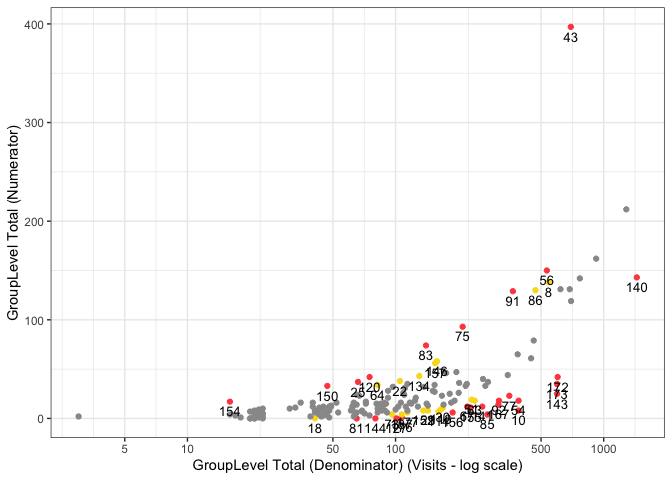
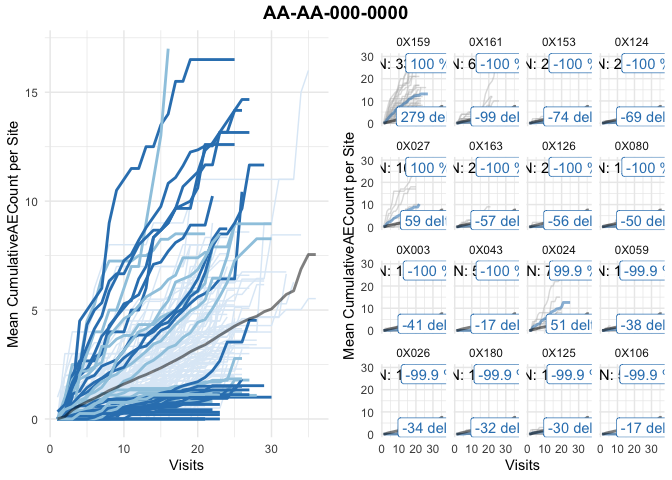
update docs

diff --git a/README.md b/README.md
@@ -20,6 +20,8 @@ The package provides:
 - `Input_CumCount()` patient-level cumulative count from source data
 - `Analyze_Simaerep()` will execute `simaerep`
 - `Flag_Simaerep()` alias of `gsm.core::Flag`
+- `Visualize_Simaerep()` and `Widget_Simaerep()` for {simaerep}-style
+  visualizations
 
 required module configuration files:
 
@@ -116,7 +118,6 @@ Cookbook](https://impala-consortium.github.io/gsm.simaerep/articles/Cookbook.htm
 
 ``` r
 library(gsm.simaerep)
-library(gsm.kri)
 
 dfInput <- Input_CumCount(
   dfSubjects = clindata::rawplus_dm,
@@ -134,11 +135,12 @@ dfAnalyzed <- Analyze_Simaerep(dfInput)
 dfFlagged <- Flag_Simaerep(dfAnalyzed, vThreshold = c(-0.99, -0.95, 0.95, 0.99))
 #> ℹ Sorted dfFlagged using custom Flag order: 2.Sorted dfFlagged using custom Flag order: -2.Sorted dfFlagged using custom Flag order: 1.Sorted dfFlagged using custom Flag order: -1.Sorted dfFlagged using custom Flag order: 0.
 
-gsm.kri::Visualize_Scatter(
+Visualize_Simaerep(
+  dfInput,
   dfFlagged,
-  dfBounds = NULL,
-  strGroupLabel = "GroupLevel",
-  strUnit = "Visits"
+  strDenominator = "Visits",
+  strNumerator = "AE",
+  strStudyId = unique(clindata::rawplus_dm$studyid)
 )
 ```
 

diff --git a/NEWS.md b/NEWS.md
@@ -1,3 +1,6 @@
+# gsm.simaerep 0.3.0
+- simaerep visualization https://github.com/IMPALA-Consortium/gsm.simaerep/issues/15
+
 # gsm.simaerep 0.2.0
 - adapt to simaerep 1.0 https://github.com/IMPALA-Consortium/gsm.simaerep/issues/23
 - add binary events e.g. subject discontinuations
